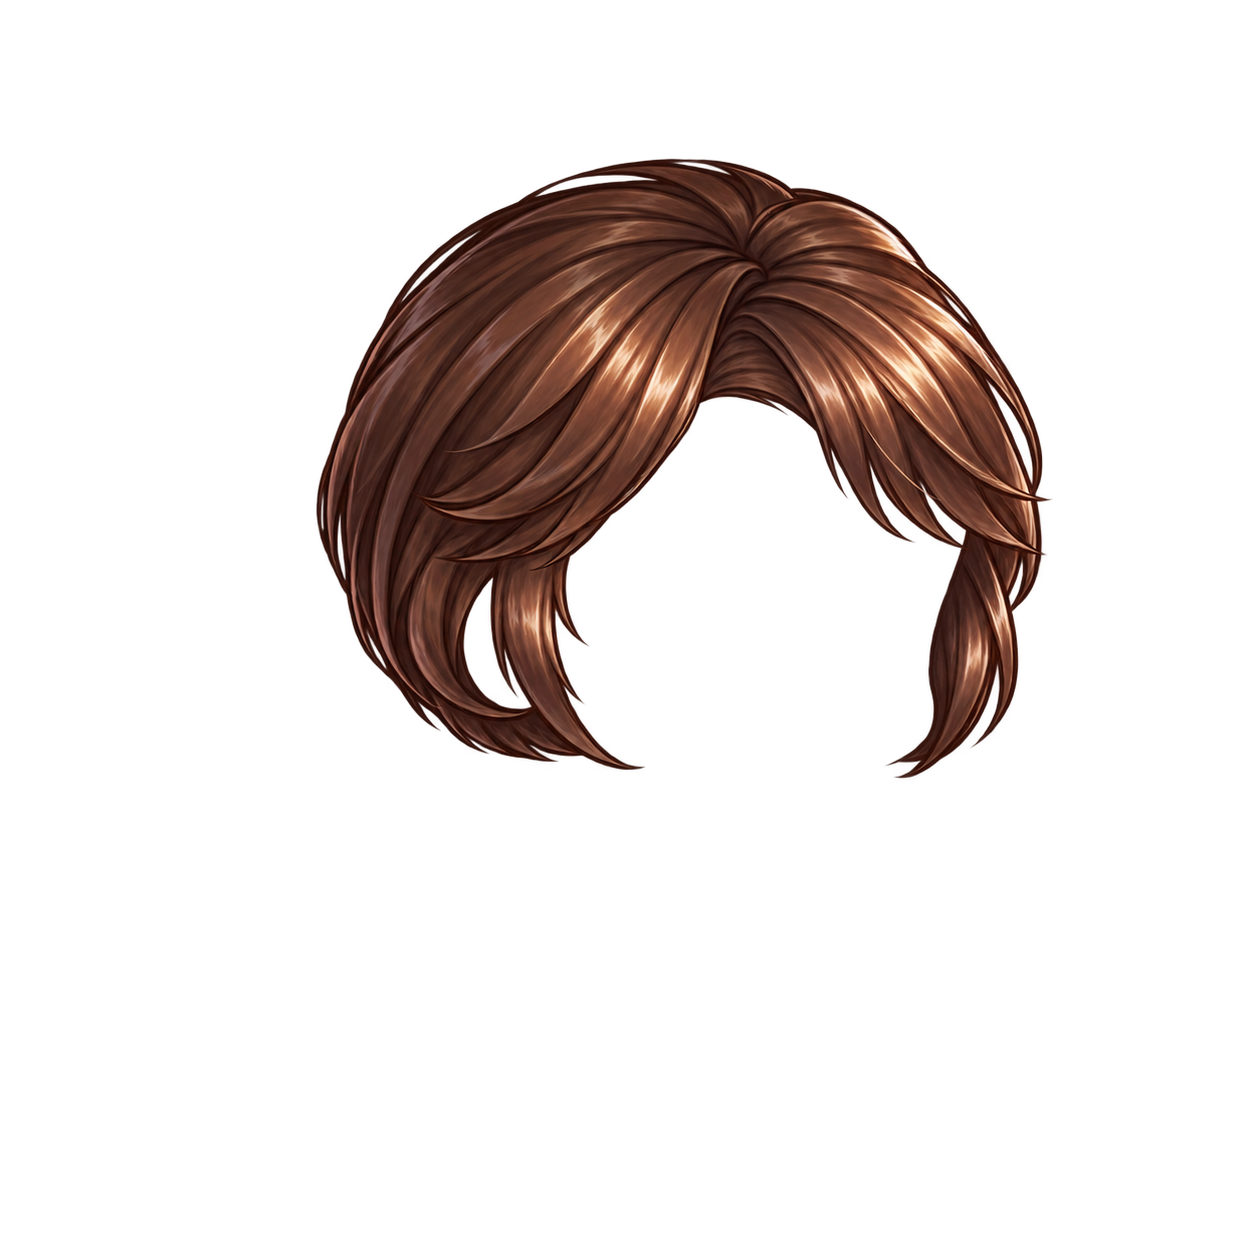
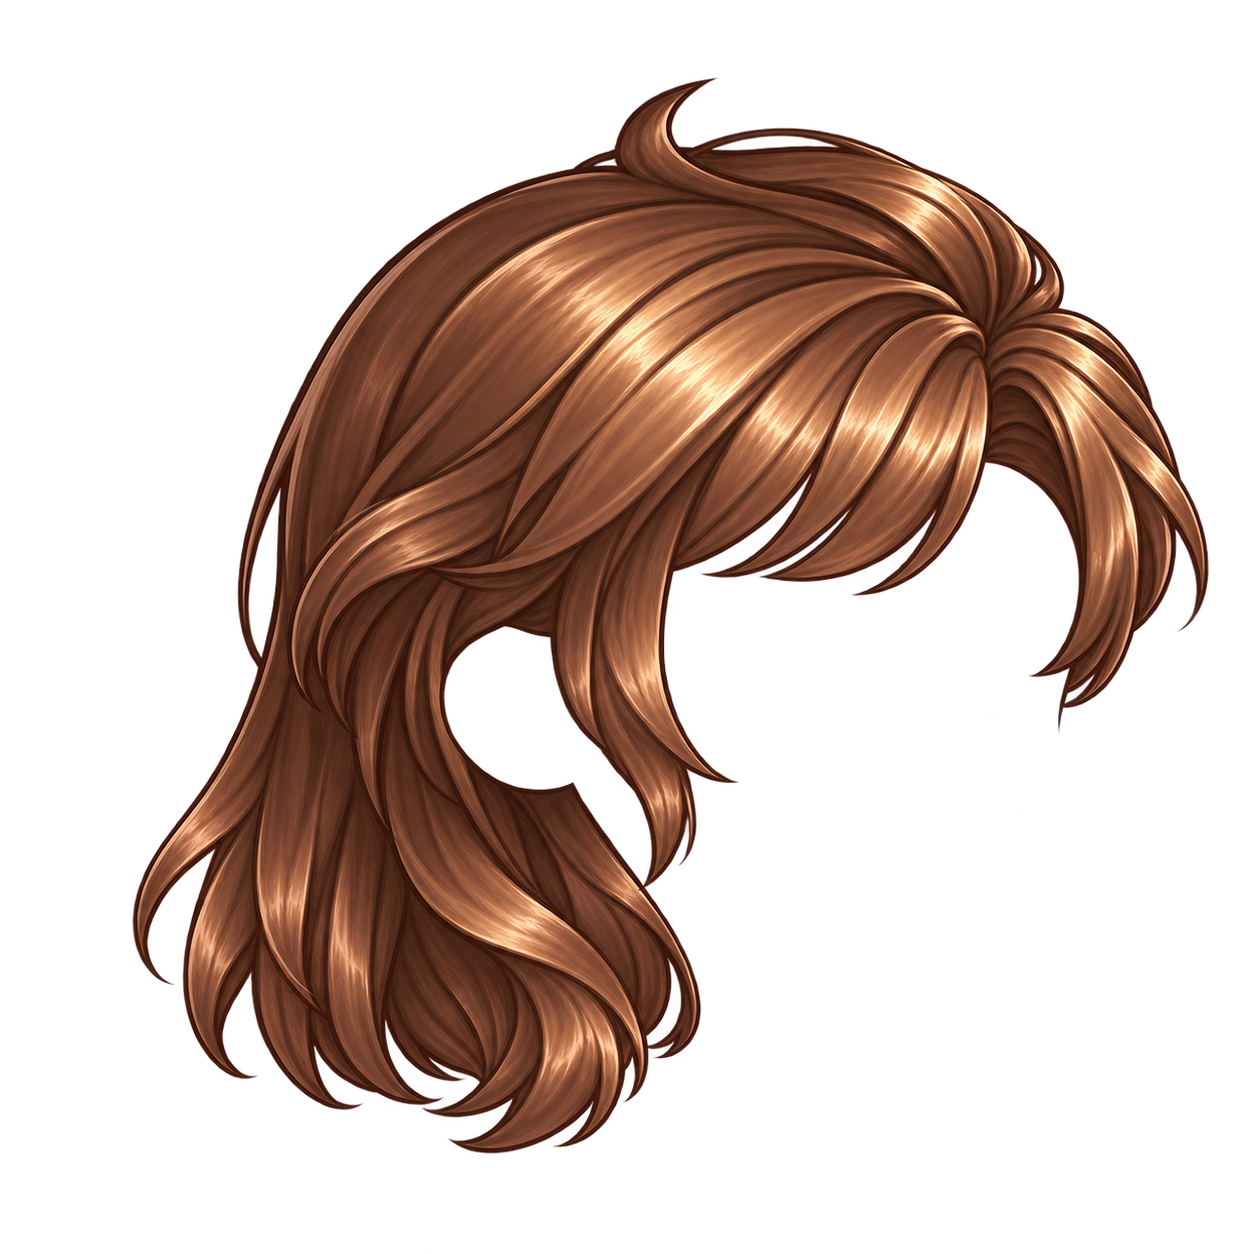
Novo cabelo básico feminino; cabelo longo até 1,45× a cabeça no validador
O primeiro chanel ficou grande demais e o validador aceitava até 1,55×; os
cabelos longos aprovados medem 1,40–1,41×.

diff --git a/src/game/rig/manifest.ts b/src/game/rig/manifest.ts
@@ -51,7 +51,7 @@ export const COSMETIC_MANIFEST:Readonly<Record<string,CosmeticManifest>>={
  'hair-swordsman':{rig:RIG_VERSION,slot:'hair',fit:'hair-short',worn:region('/assets/hair-swordsman.png',[266,146,894,661],[338,62,584,432])},
  'hair-idol':{rig:RIG_VERSION,slot:'hair',fit:'hair-twin',worn:region('/assets/hair-idol.png',[33,170,1202,995],[374.1,93,594.9,492.3])},
  'hair-basic-male':{rig:RIG_VERSION,slot:'hair',fit:'hair-short',worn:region('/assets/hair-basic-male.png',[324,199,733,501],[352.6,127.2,586.4,400.8])},
- 'hair-basic-female':{rig:RIG_VERSION,slot:'hair',fit:'hair-long',worn:region('/assets/hair-basic-female.png',[312,154,745,629],[401.8,151.5,519.2,438.4])},
+ 'hair-basic-female':{rig:RIG_VERSION,slot:'hair',fit:'hair-long',worn:region('/assets/hair-basic-female.png',[128,73,1085,1085],[276.6,60,585.9,585.9])},
  'hair-surf':{rig:RIG_VERSION,slot:'hair',fit:'hair-long',worn:region('/assets/hair-surf.png',[196,80,999,1034],[322,92,600,621])},
  'hair-horizon':{rig:RIG_VERSION,slot:'hair',fit:'hair-short',worn:region('/assets/hair-horizon.png',[270,49,753,593],shrink([288,25.8,674,533],.9,[760,250])),covered:region('/assets/hair-horizon.png',[312,739,698,472],[345,195,500,338])},
  'hat-cap':{rig:RIG_VERSION,slot:'hat',fit:'hat-tight',profile:'tight',worn:hat([35,130,522,332],[[126,442],[485,330]])},

diff --git a/src/game/rig/anchors.ts b/src/game/rig/anchors.ts
@@ -60,7 +60,7 @@ export const EAR_CONTACT={earGap:8,misses:1,sideburn:.2,sideburnBox:[522,425,38,
 export const HAT_SEAT_GAP=8;
 export const FIT_ZONES:Readonly<Record<FitClass,FitZone>>={
  'hair-short':{maxWidth:1.45,maxAboveCrown:.30,maxBottom:640,keepoutTolerance:60},
- 'hair-long':{maxWidth:1.55,maxAboveCrown:.30,maxBottom:820,keepoutTolerance:60},
+ 'hair-long':{maxWidth:1.45,maxAboveCrown:.30,maxBottom:820,keepoutTolerance:60},
  /** Twin tails hang on both sides of the head, so they may be twice as wide as it. */
  'hair-twin':{maxWidth:2.0,maxAboveCrown:.30,maxBottom:900,keepoutTolerance:60},
  'hat-tight':{maxWidth:1.40,maxAboveCrown:.60,maxBottom:470,keepoutTolerance:null},

diff --git a/docs/cosmetics-fit.md b/docs/cosmetics-fit.md
@@ -17,7 +17,7 @@ O rosto já segue um contrato universal (`face-authoring-rules.md`). O rig v1 es
 | Classe | Largura máx. (× cabeça) | Acima do crânio | Outros limites |
 | --- | --- | --- | --- |
 | `hair-short` | 1,45 | 0,30 | Até y=640; sem cobrir olhos/boca |
-| `hair-long` | 1,55 | 0,30 | Até y=820 (atrás do corpo); sem cobrir olhos/boca |
+| `hair-long` | 1,45 (21/10: 1,55 deixou passar cabelo grande demais) | 0,30 | Até y=820 (atrás do corpo); sem cobrir olhos/boca |
 | `hat-tight` | 1,40 | 0,60 | Até y=470 (19/10: chapéu assentado na testa, como no DDTank; a visibilidade dos óculos continua medida) |
 | `hat-wide` | 1,75 | 0,90 | Até y=495 |
 | `hat-band` | 1,20 | 0,30 | Até y=420; sem cobrir olhos/boca |
